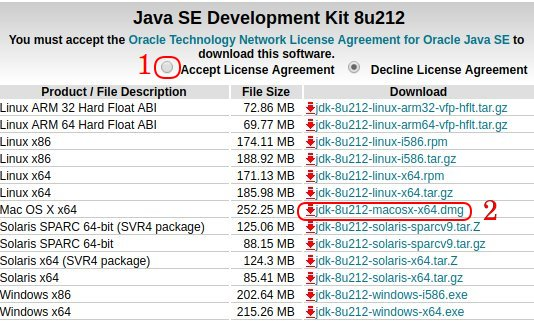
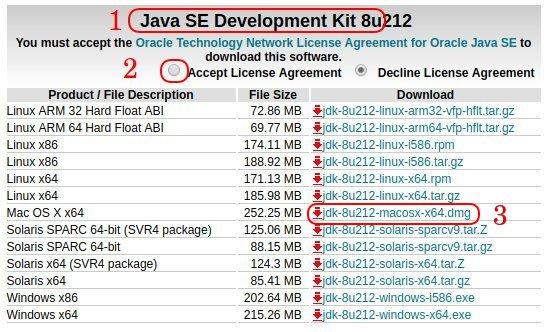
update README.md

diff --git a/README.md b/README.md
@@ -303,7 +303,7 @@ Copy **URL:** and paste it in place of **$(WVC_URL)** in **vcap.json**
 
 ![](res/win.png)
 
-* Download [latest JDK 8](https://www.oracle.com/technetwork/java/javase/downloads/jdk8-downloads-2133151.html) and install it. ![](res/winjdk.jpg)
+* Download [latest JDK 8](https://www.oracle.com/technetwork/java/javase/downloads/jdk8-downloads-2133151.html) :warning: be sure to download a :thumbsup: **Java SE Development Kit 8uXXX** and :no_entry: Not **Demos and Samples** :no_entry: and install it. ![](res/winjdk.jpg)
 * Download [WAS Liberty Kernel](https://developer.ibm.com/wasdev/downloads/#asset/runtimes-wlp-kernel) to your **home directory**.
 * Download [jq](https://github.com/stedolan/jq/releases/download/jq-1.5/jq-win64.exe), rename it to **jq** and copy it in your %PATH% (e.g. **C:\Windows\System32**).
 
